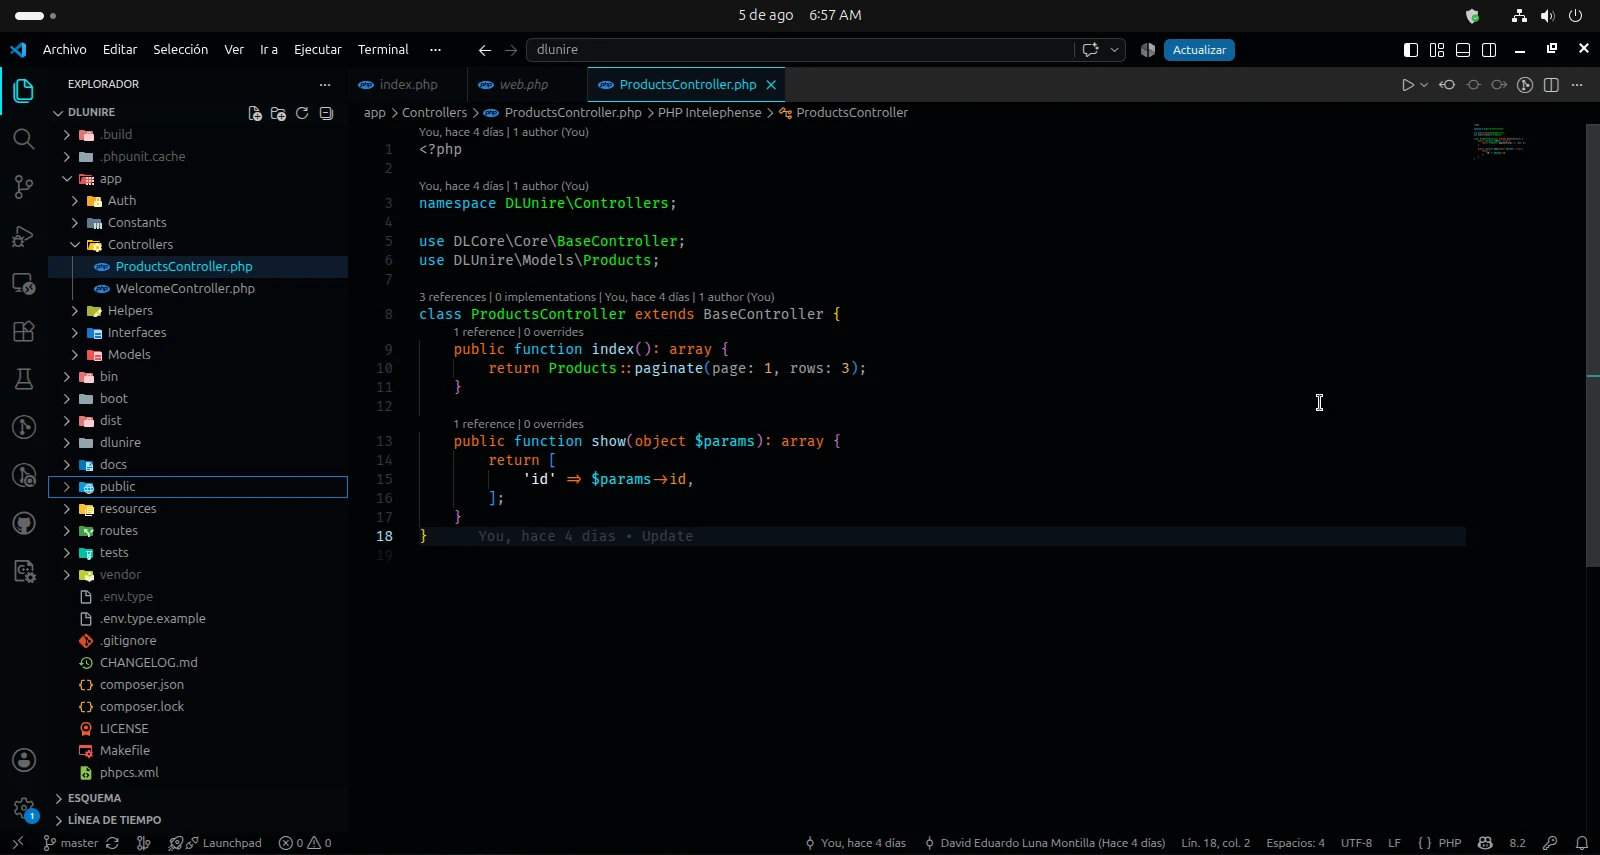
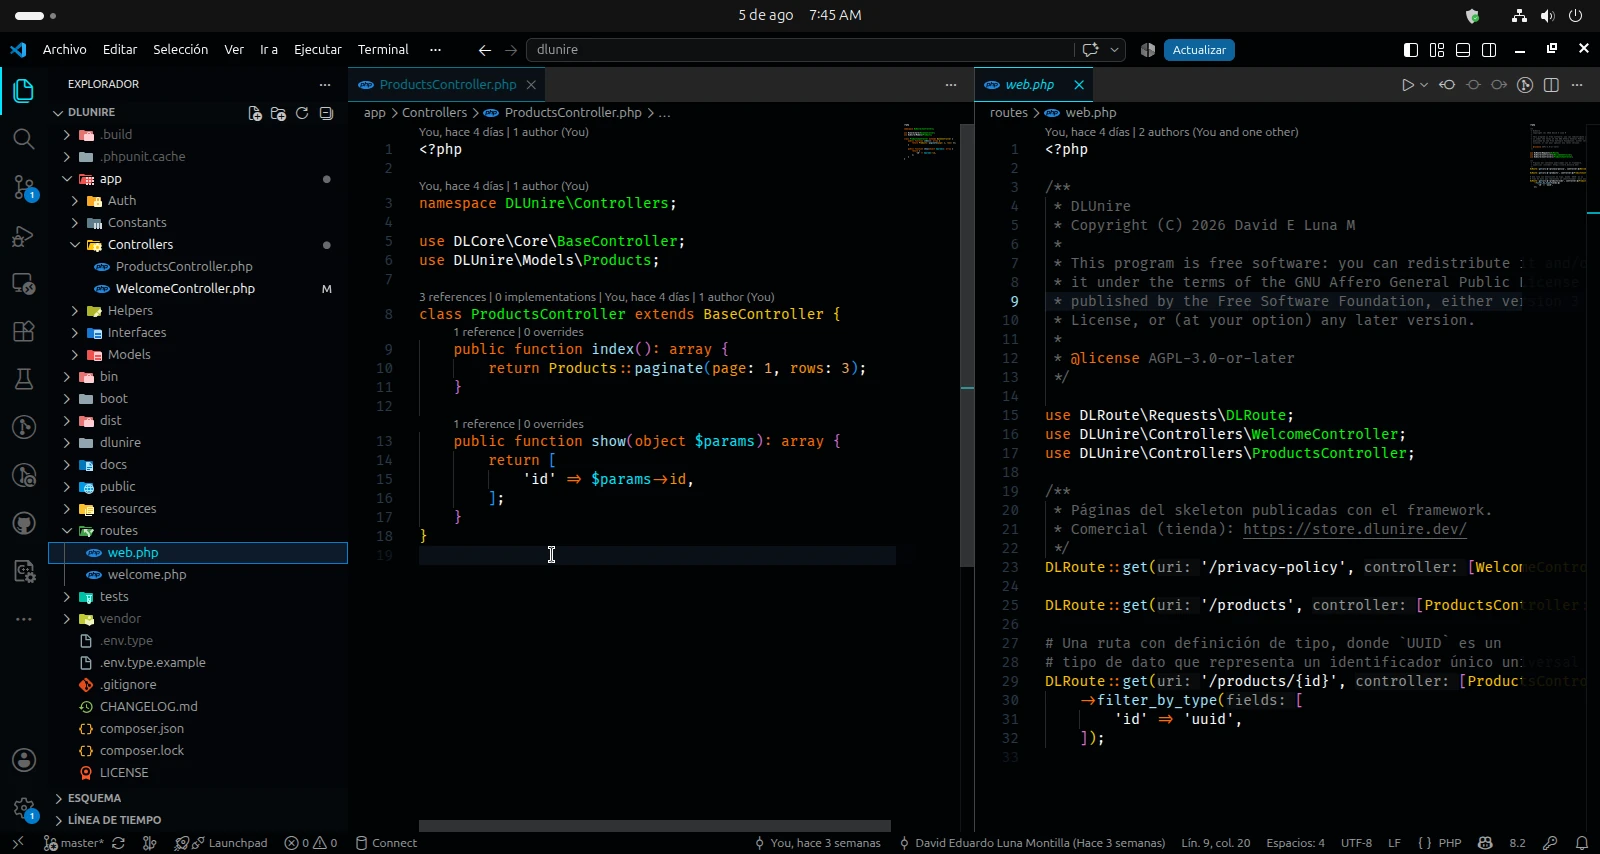
Update

diff --git a/README.md b/README.md
@@ -12,30 +12,24 @@ Instead of coloring tokens at random, the theme groups language constructs by th
 
 It was refined against real projects in the **DLUnire Framework** ecosystem and works well across modern languages — with special care for PHP and TypeScript.
 
+### Syntax types at a glance
+
+A compact grammar sample showing how variables, types, strings, numbers, booleans, and comments are distinguished:
+
+![DLUnire Dark — syntax types](./dlunire-dark-type.webp)
+
 ---
 
 ## Table of Contents
 
-- [DLUnire Dark](#dlunire-dark)
-  - [Table of Contents](#table-of-contents)
-  - [Overview](#overview)
-    - [Main goals](#main-goals)
-  - [Gallery](#gallery)
-    - [TypeScript](#typescript)
-    - [Svelte](#svelte)
-    - [SCSS](#scss)
-    - [TypeScript — Routing Engine](#typescript--routing-engine)
-    - [Rust](#rust)
-    - [PHP](#php)
-    - [PHP Controller](#php-controller)
-  - [Features](#features)
-    - [Highlights](#highlights)
-  - [Color Palette](#color-palette)
-  - [Supported Languages](#supported-languages)
-  - [Installation](#installation)
-    - [Visual Studio Code Marketplace](#visual-studio-code-marketplace)
-  - [Design Philosophy](#design-philosophy)
-  - [Repository](#repository)
+- [Overview](#overview)
+- [Gallery](#gallery)
+- [Features](#features)
+- [Color Palette](#color-palette)
+- [Supported Languages](#supported-languages)
+- [Installation](#installation)
+- [Design Philosophy](#design-philosophy)
+- [Repository](#repository)
 
 ---
 
